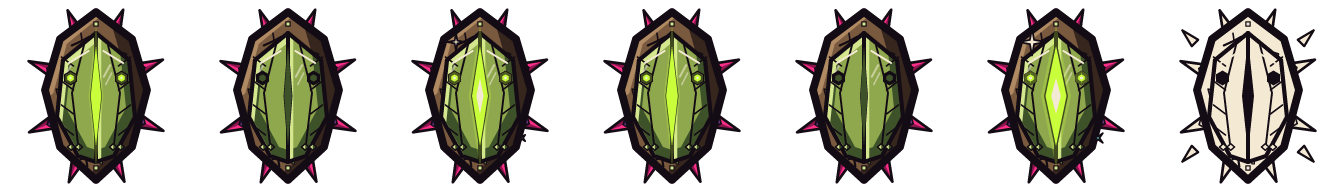
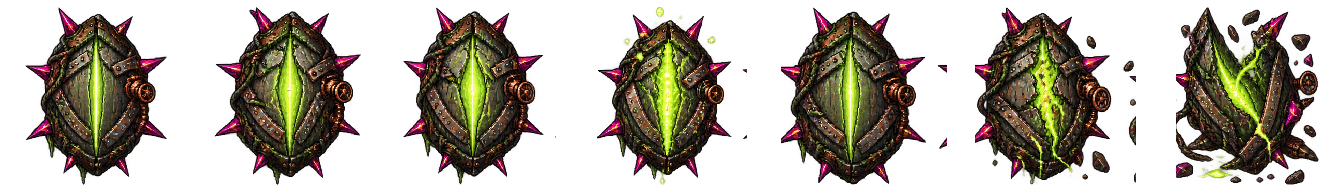
art: rebuild rugged verdant pod rock

diff --git a/docs/art-production-queue.md b/docs/art-production-queue.md
@@ -45,7 +45,7 @@ Every numbered line is a separate commit/merge unit unless it explicitly says
 28. **Installed, validated — `frost_rock_shard`** — rugged Frost ice-shard industrial hazard; 7-frame strip vetted for safe cell margins and roster validation.
 29. **Installed, validated — `verdant_rock_spore`** — rugged grass-capped bio-industrial Spore Rock; floating 7-frame strip preserves its mandated key silhouette and safe cell margins.
 30. **Installed, validated — `verdant_rock_vine`** — rugged floating Verdant terrain wedge with root-cable vines; 7-frame strip vetted for safe cell margins and roster validation.
-31. **Queued — `verdant_rock_pod`**
+31. **Installed and validated — `verdant_rock_pod`** — rugged copper-braced thorn pod with a breathing resin seam; seven-cell strip vetted for safe cell margins and flipbook continuity.
 32. **Queued — `verdant_rock_knot`**
 33. **Installed and validated — `ember_rock_magma`** — rugged basalt pressure boulder with copper braces and pulsing molten seams; seven-cell boundary and flipbook continuity checked.
 34. **Installed and validated — `ember_rock_islet`** — rugged floating basalt shelf with slag, copper clamps, and molten seams; seven-cell boundary and flipbook continuity checked.
